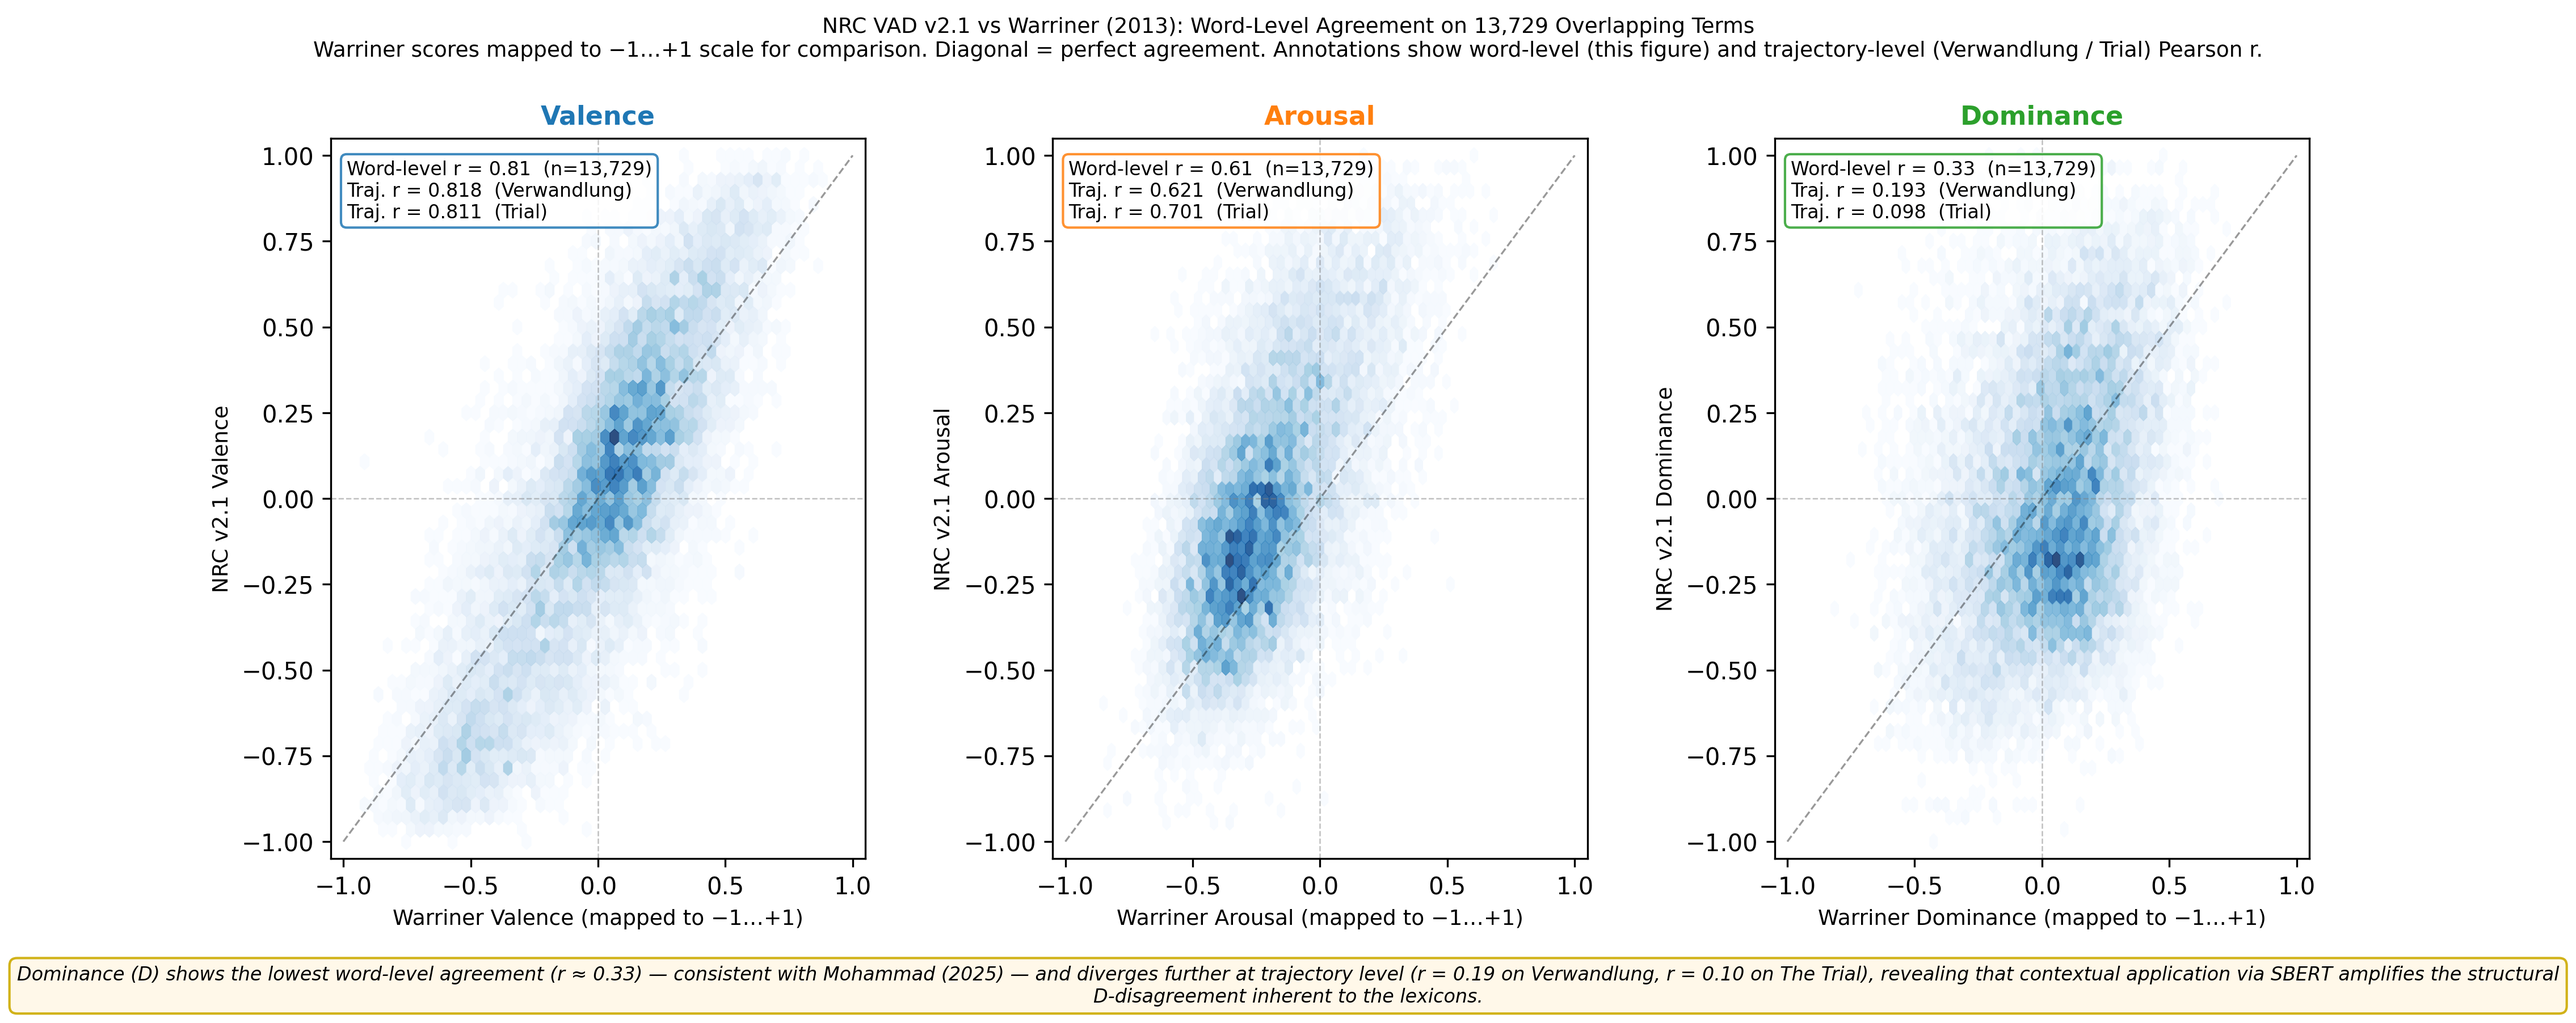
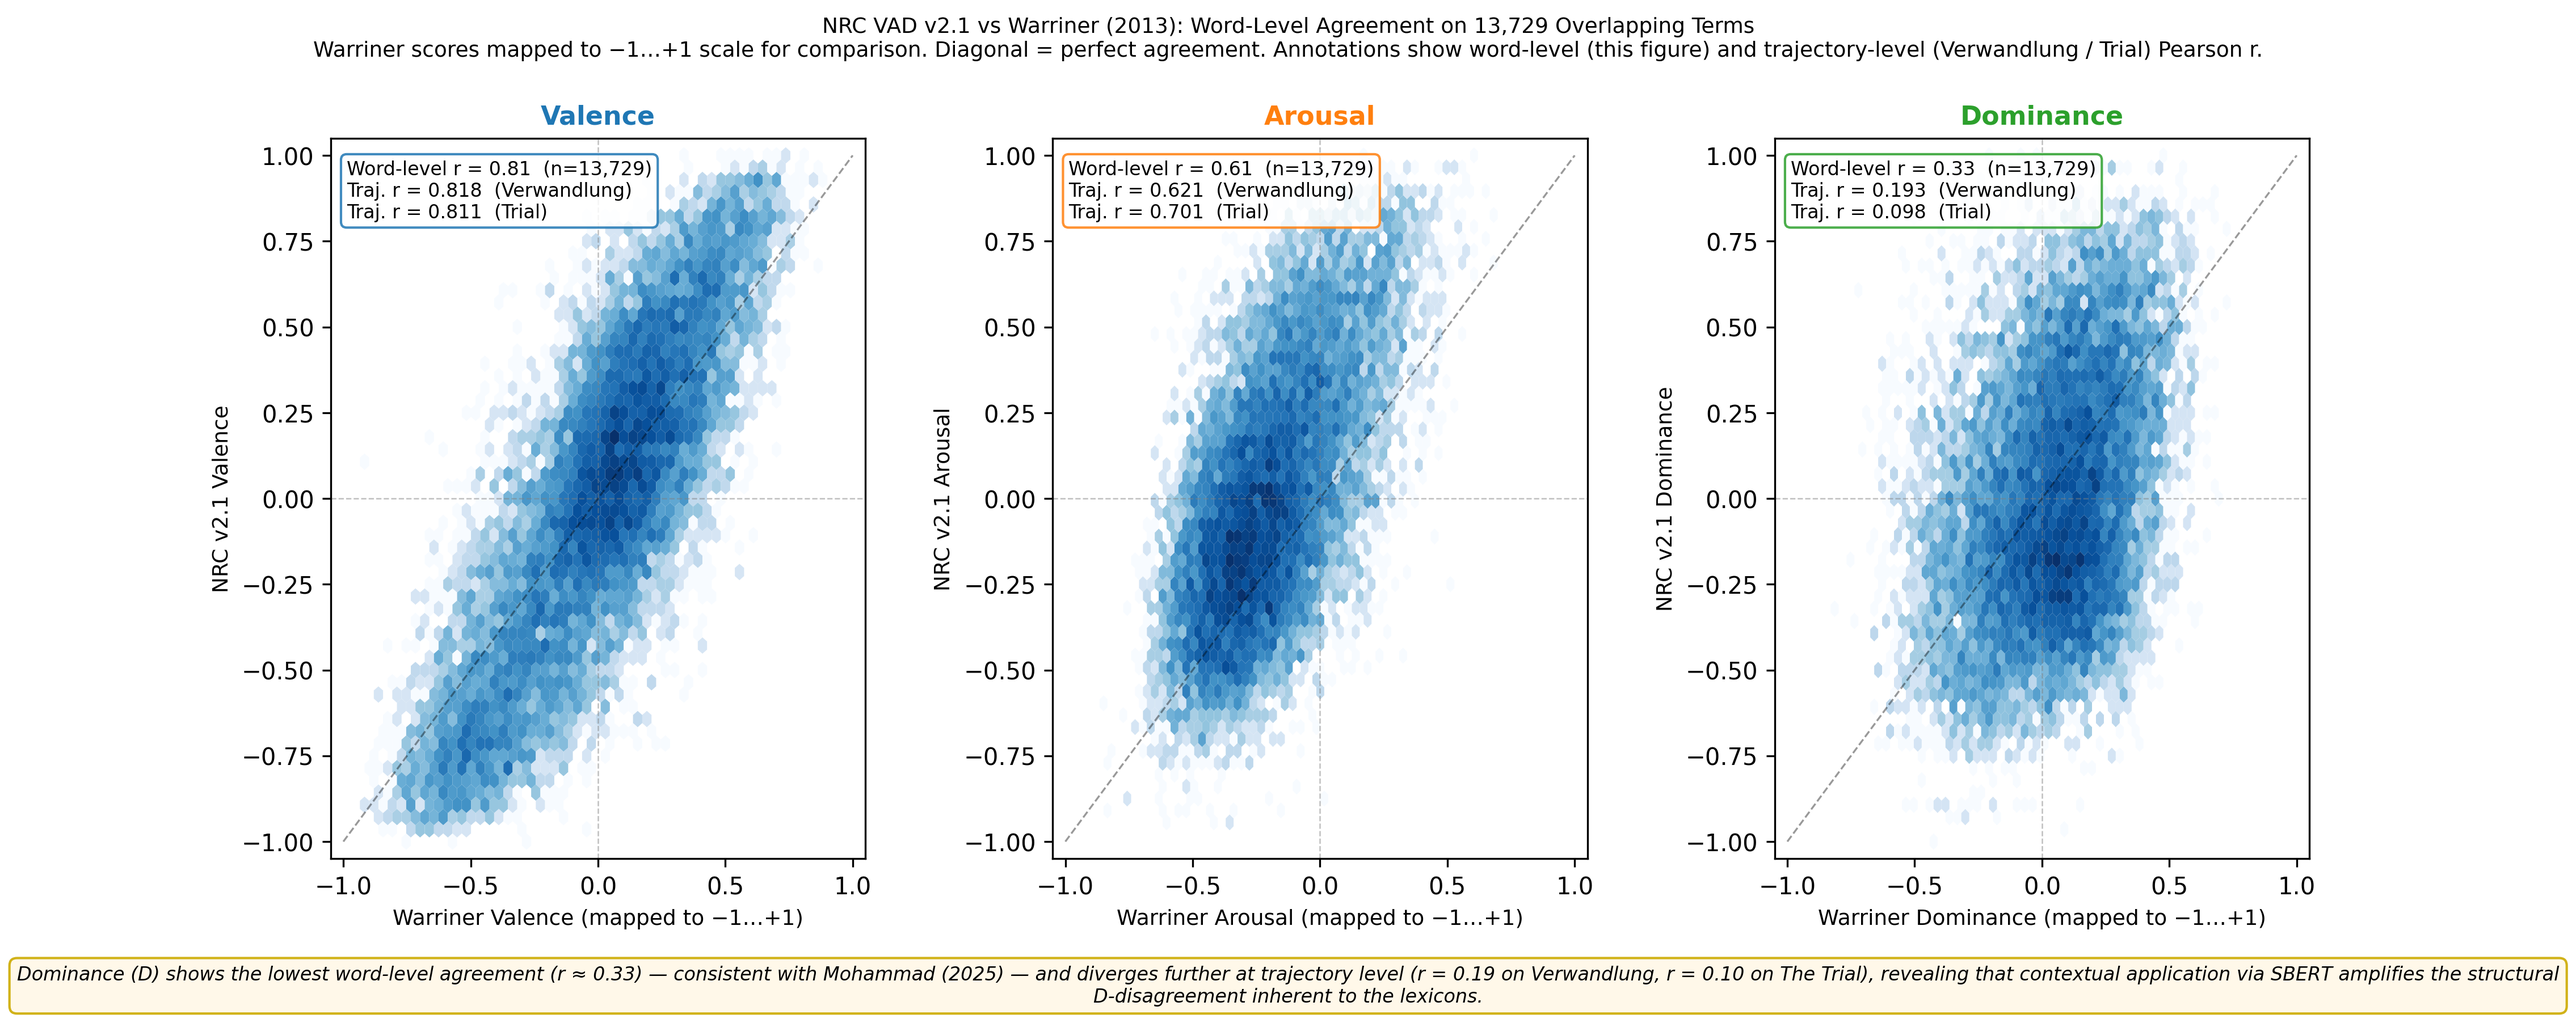
Sharpen EDA lexicon figure: opaque log-scaled hexbins

diff --git a/plot_eda_lexicons.py b/plot_eda_lexicons.py
@@ -78,8 +78,9 @@ def normalize_warriner(series: pd.Series) -> pd.Series:
 
 def scatter_panel(ax, x, y, dim, color, word_r, n_words):
     """Render one scatter panel with hexbin density + Pearson annotation."""
-    # Hexbin for density
-    hb = ax.hexbin(x, y, gridsize=50, cmap="Blues", mincnt=1, alpha=0.85, linewidths=0.2)
+    # Hexbin for density: opaque + log colour scale so the structure reads
+    # crisply instead of washing out to a pale cloud (linear bins + alpha).
+    hb = ax.hexbin(x, y, gridsize=50, cmap="Blues", mincnt=1, bins="log", linewidths=0.0)
 
     ax.set_xlabel(f"Warriner {DIM_LABELS[dim]} (mapped to −1…+1)", fontsize=9)
     ax.set_ylabel(f"NRC v2.1 {DIM_LABELS[dim]}", fontsize=9)
